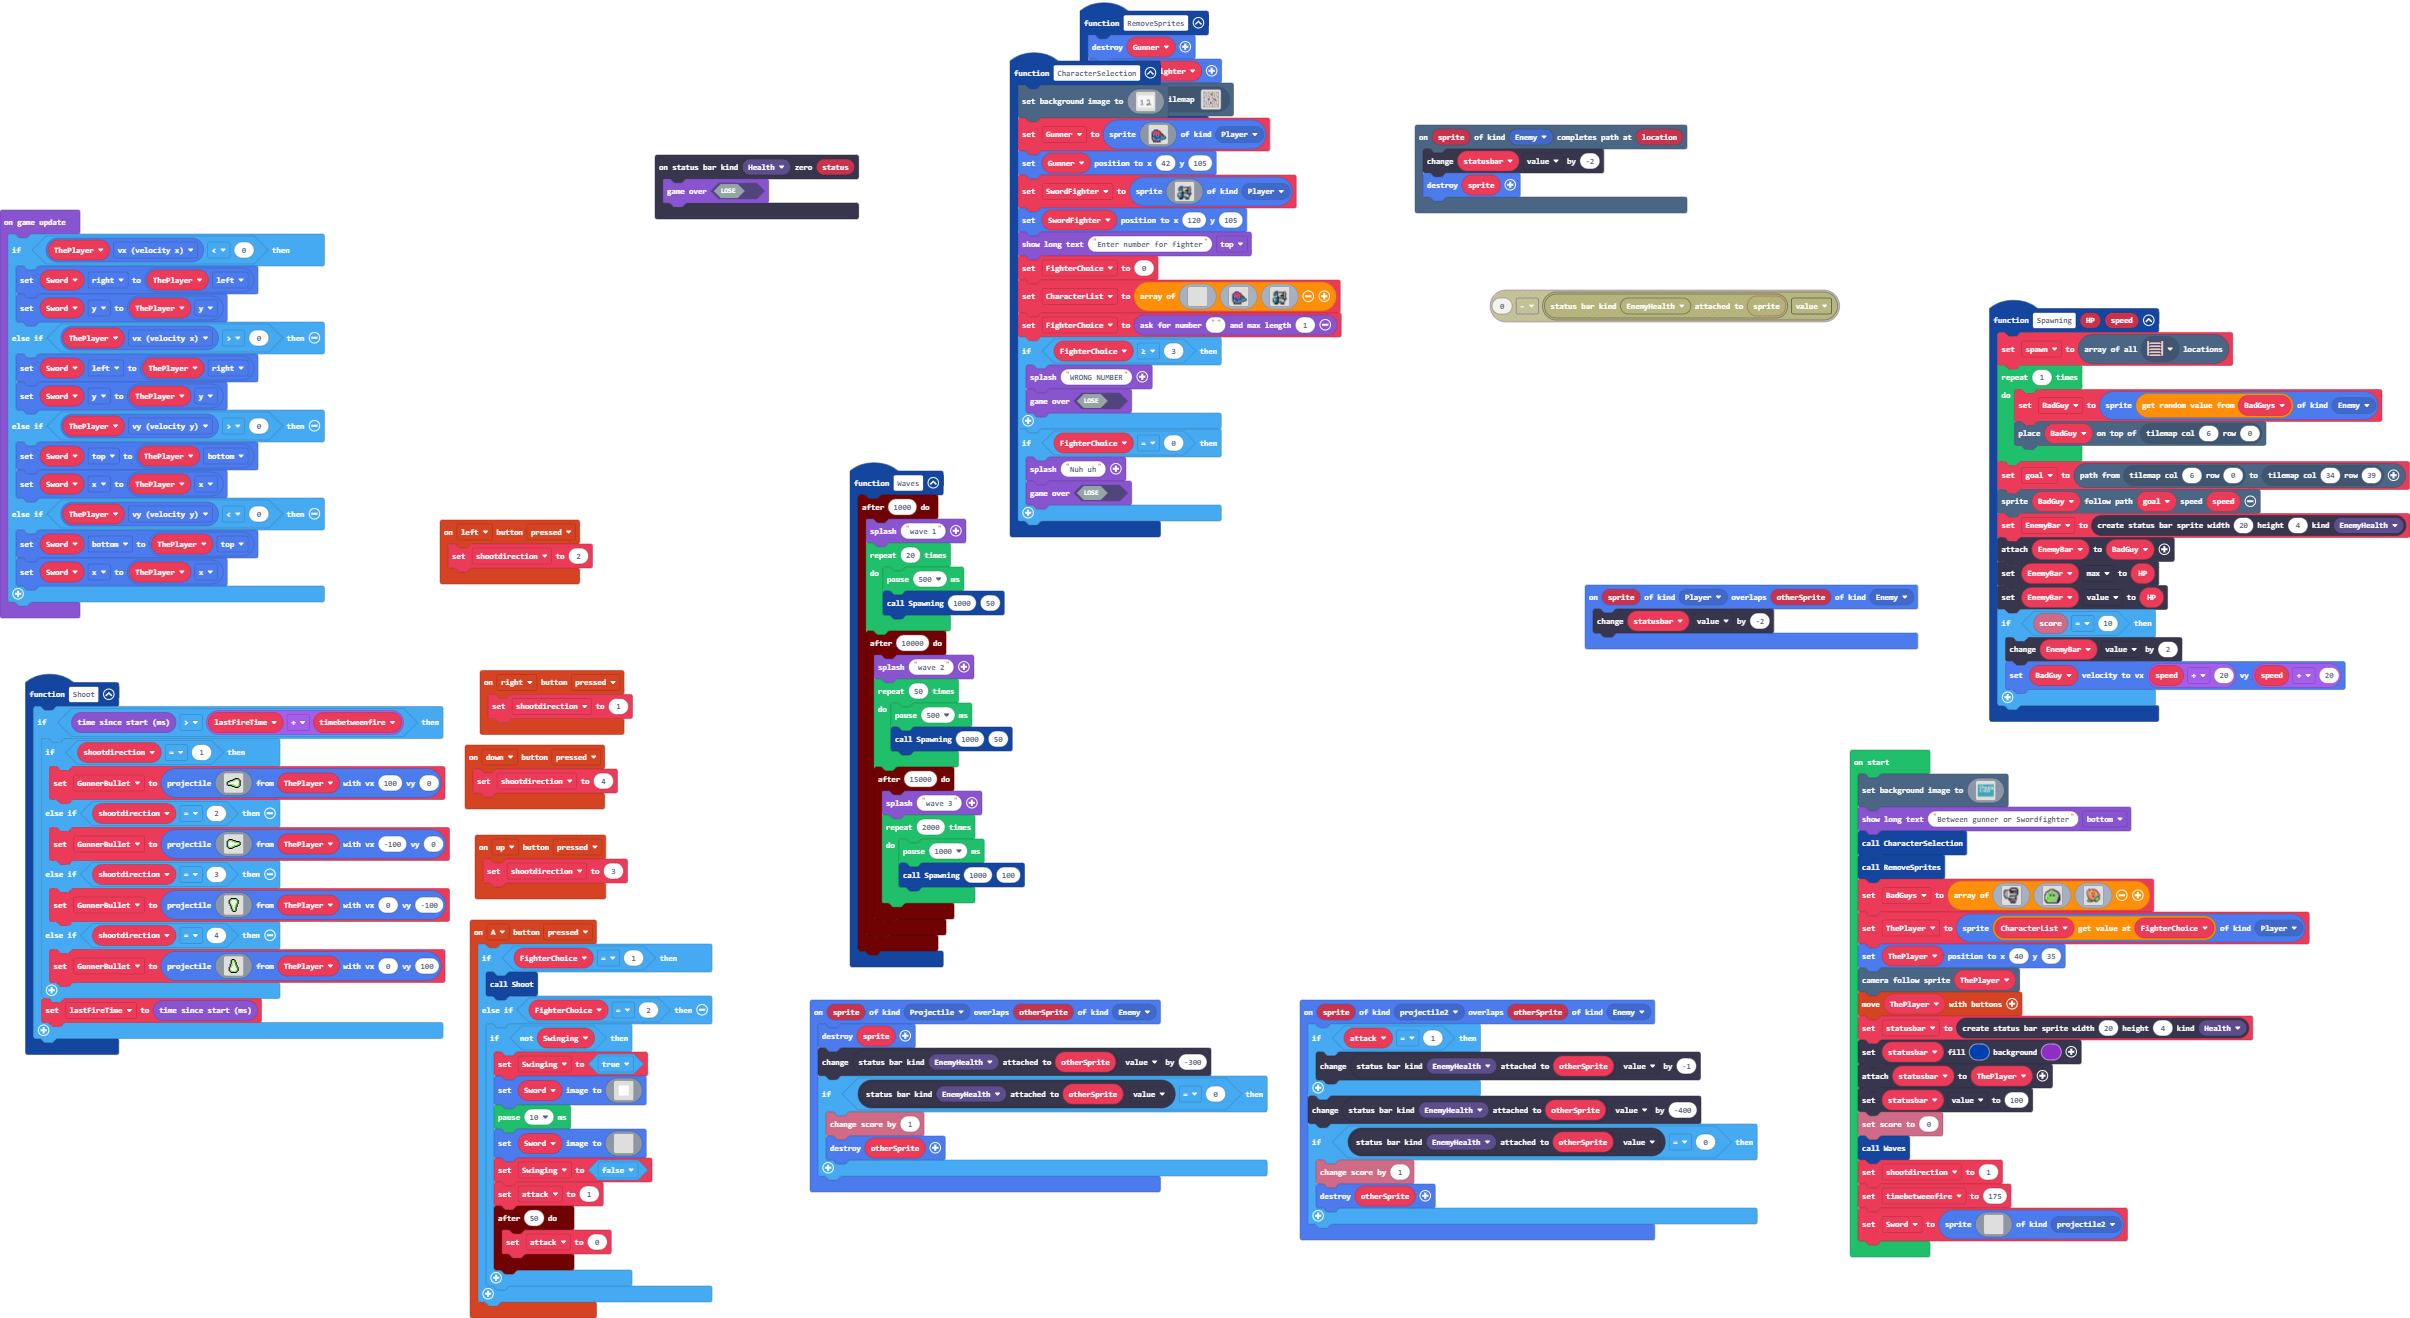
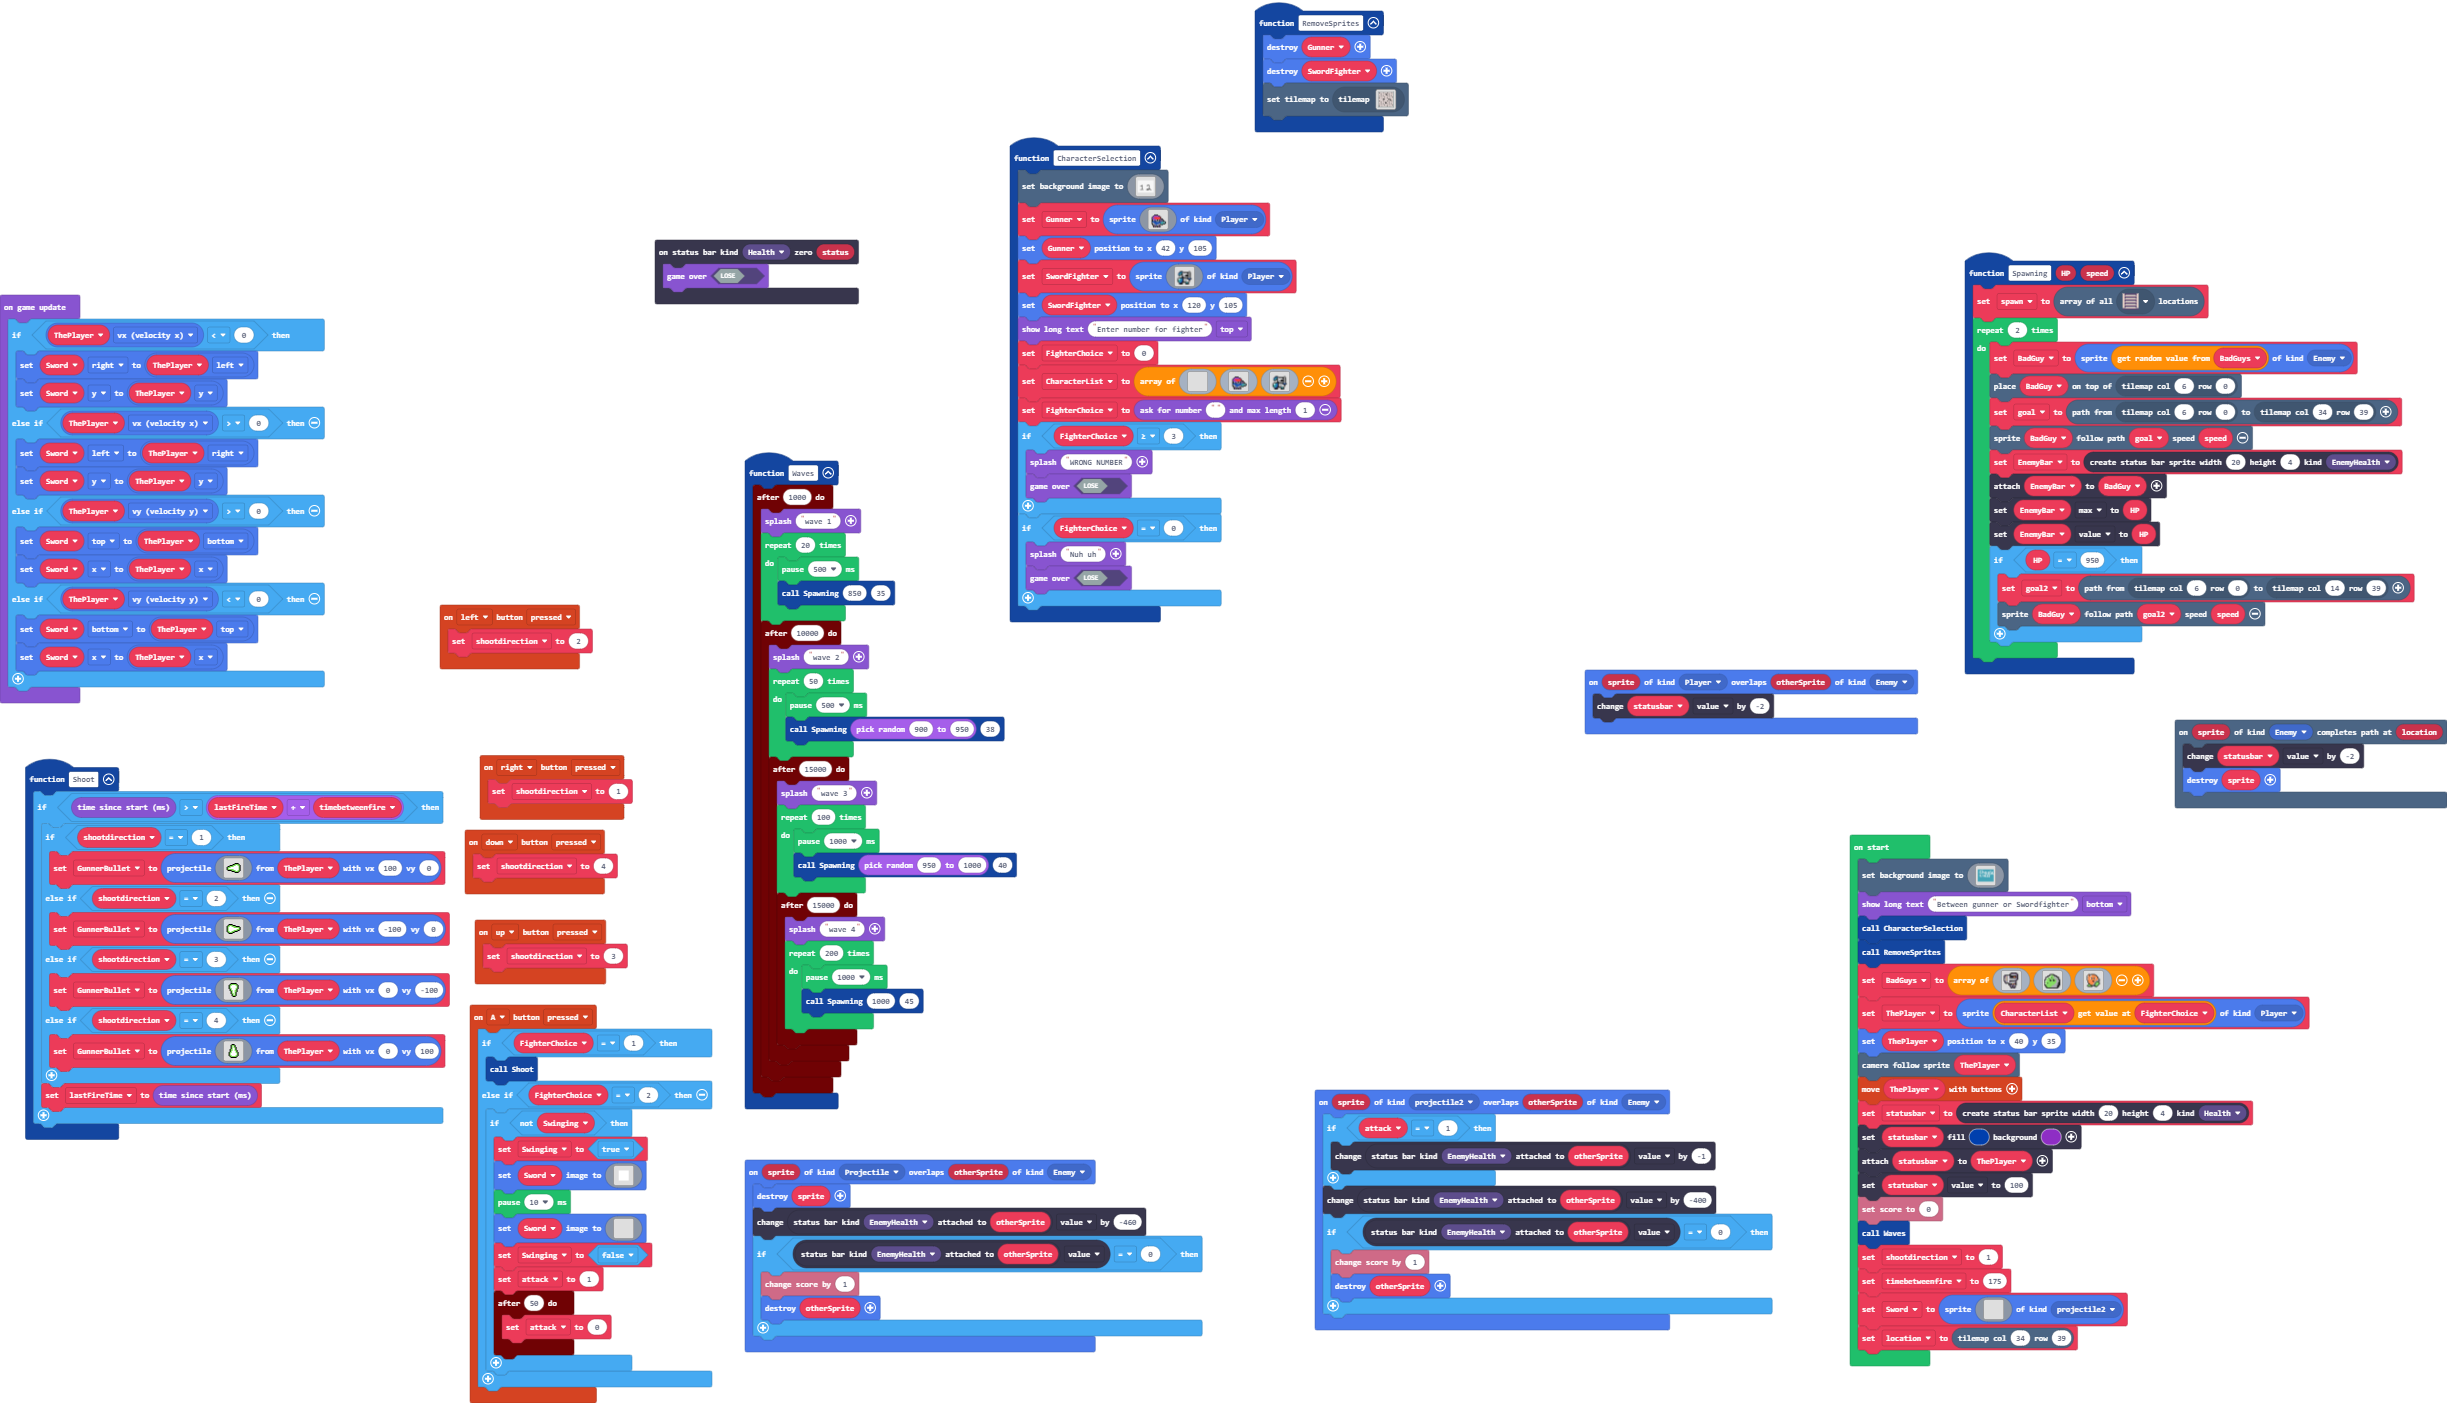
new wave and fixed function

diff --git a/main.ts b/main.ts
@@ -407,19 +407,19 @@ controller.down.onEvent(ControllerButtonEvent.Pressed, function () {
 })
 function Spawning (HP: number, speed: number) {
     spawn = tiles.getTilesByType(sprites.dungeon.stairNorth)
-    for (let index = 0; index < 1; index++) {
+    for (let index = 0; index < 2; index++) {
         BadGuy = sprites.create(BadGuys._pickRandom(), SpriteKind.Enemy)
         tiles.placeOnTile(BadGuy, tiles.getTileLocation(6, 0))
-    }
-    goal = scene.aStar(tiles.getTileLocation(6, 0), tiles.getTileLocation(34, 39))
-    scene.followPath(BadGuy, goal, speed)
-    EnemyBar = statusbars.create(20, 4, StatusBarKind.EnemyHealth)
-    EnemyBar.attachToSprite(BadGuy)
-    EnemyBar.max = HP
-    EnemyBar.value = HP
-    if (info.score() == 10) {
-        EnemyBar.value += 2
-        BadGuy.setVelocity(speed + 20, speed + 20)
+        goal = scene.aStar(tiles.getTileLocation(6, 0), tiles.getTileLocation(34, 39))
+        scene.followPath(BadGuy, goal, speed)
+        EnemyBar = statusbars.create(20, 4, StatusBarKind.EnemyHealth)
+        EnemyBar.attachToSprite(BadGuy)
+        EnemyBar.max = HP
+        EnemyBar.value = HP
+        if (HP == 950) {
+            goal2 = scene.aStar(tiles.getTileLocation(6, 0), tiles.getTileLocation(14, 39))
+            scene.followPath(BadGuy, goal2, speed)
+        }
     }
 }
 function Waves () {
@@ -427,27 +427,34 @@ function Waves () {
         game.splash("wave 1")
         for (let index = 0; index < 20; index++) {
             pause(500)
-            Spawning(1000, 50)
+            Spawning(850, 35)
         }
         timer.after(10000, function () {
             game.splash("wave 2")
             for (let index = 0; index < 50; index++) {
                 pause(500)
-                Spawning(1000, 50)
+                Spawning(randint(900, 950), 38)
             }
             timer.after(15000, function () {
                 game.splash("wave 3")
-                for (let index = 0; index < 2000; index++) {
+                for (let index = 0; index < 100; index++) {
                     pause(1000)
-                    Spawning(1000, 100)
+                    Spawning(randint(950, 1000), 40)
                 }
+                timer.after(15000, function () {
+                    game.splash("wave 4")
+                    for (let index = 0; index < 200; index++) {
+                        pause(1000)
+                        Spawning(1000, 45)
+                    }
+                })
             })
         })
     })
 }
 sprites.onOverlap(SpriteKind.Projectile, SpriteKind.Enemy, function (sprite, otherSprite) {
     sprites.destroy(sprite)
-    statusbars.getStatusBarAttachedTo(StatusBarKind.EnemyHealth, otherSprite).value += -300
+    statusbars.getStatusBarAttachedTo(StatusBarKind.EnemyHealth, otherSprite).value += -460
     if (statusbars.getStatusBarAttachedTo(StatusBarKind.EnemyHealth, otherSprite).value == 0) {
         info.changeScoreBy(1)
         sprites.destroy(otherSprite)
@@ -456,6 +463,7 @@ sprites.onOverlap(SpriteKind.Projectile, SpriteKind.Enemy, function (sprite, oth
 sprites.onOverlap(SpriteKind.Player, SpriteKind.Enemy, function (sprite, otherSprite) {
     statusbar.value += -2
 })
+let goal2: tiles.Location[] = []
 let EnemyBar: StatusBarSprite = null
 let goal: tiles.Location[] = []
 let BadGuy: Sprite = null
@@ -693,6 +701,7 @@ Sword = sprites.create(img`
     . . . . . . . . . . . . . . . . 
     . . . . . . . . . . . . . . . . 
     `, SpriteKind.projectile2)
+let location = tiles.getTileLocation(34, 39)
 game.onUpdate(function () {
     if (ThePlayer.vx < 0) {
         Sword.right = ThePlayer.left

diff --git a/tilemap.g.ts b/tilemap.g.ts
@@ -86,7 +86,7 @@ namespace myTiles {
 2..22..................22..............2
 2......................................2
 2......................................2
-2222222222222222222222222222222222.22222
+22222222222222.2222222222222222222.22222
 `, [myTiles.transparency16,sprites.builtin.forestTiles10,sprites.dungeon.greenOuterNorthWest,sprites.dungeon.greenOuterNorth0,sprites.dungeon.greenOuterNorthEast,sprites.dungeon.greenOuterEast0,sprites.dungeon.greenOuterSouthWest,sprites.dungeon.greenOuterSouth2,sprites.dungeon.greenOuterSouth1,sprites.dungeon.greenOuterSouthEast,sprites.dungeon.greenOuterWest1,sprites.dungeon.greenOuterWest0,sprites.dungeon.greenOuterSouth0,sprites.dungeon.greenOuterEast1,sprites.dungeon.greenOuterNorth1,sprites.dungeon.floorLight4,sprites.dungeon.stairNorth], TileScale.Sixteen);
         }
         return null;
